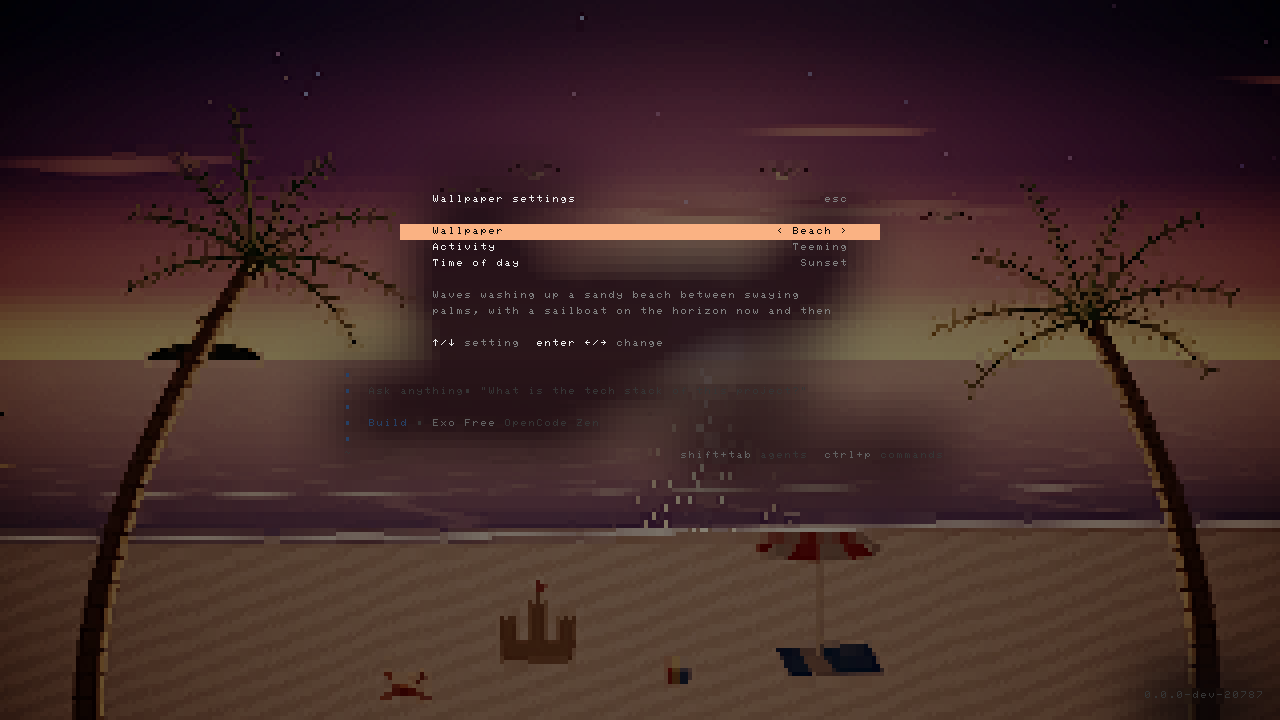
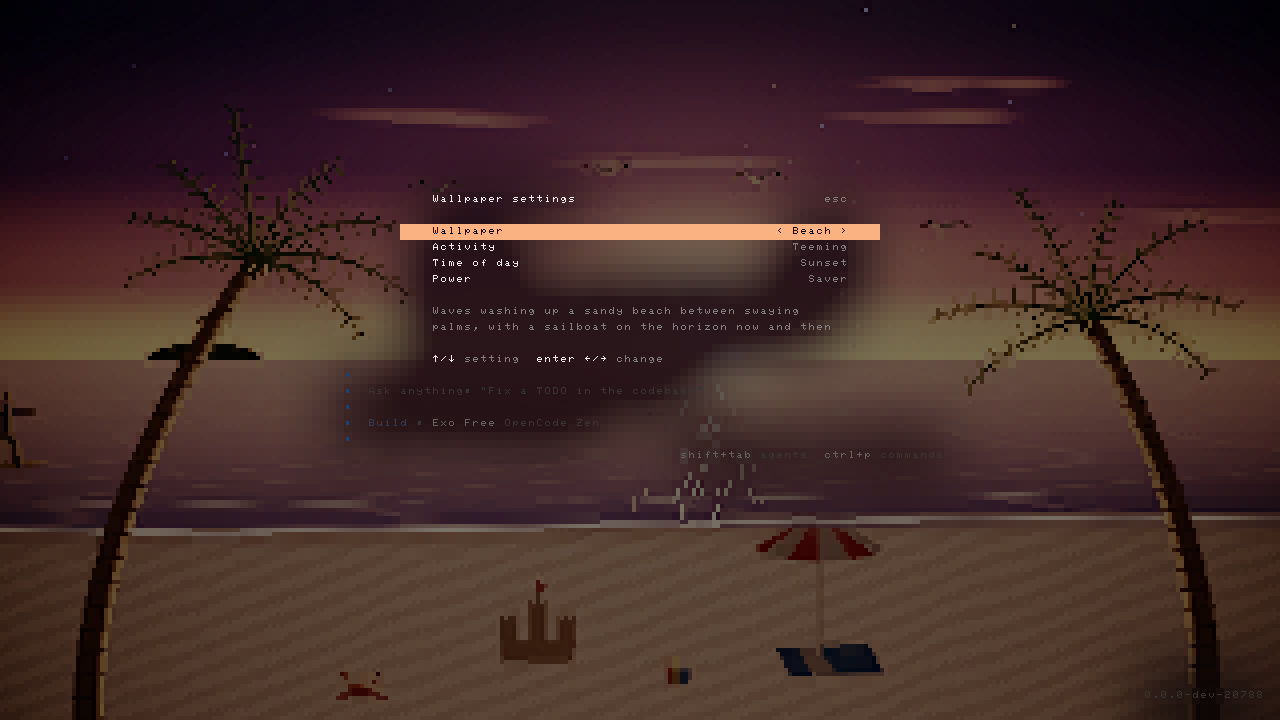
Add a Saver power mode: 5 fps when idle, paused when unfocused

diff --git a/src/engine.tsx b/src/engine.tsx
@@ -43,6 +43,10 @@ export type Activity = (typeof ACTIVITIES)[number]
 export const TIMES = ["day", "sunset", "night"] as const
 export type Time = (typeof TIMES)[number]
 
+// saver slows down when nobody is using OpenCode and stops while the terminal is in the background; smooth never does.
+export const POWERS = ["saver", "smooth"] as const
+export type Power = (typeof POWERS)[number]
+
 
 const UPPER_HALF = 0x2580
 const LOWER_HALF = 0x2584
@@ -221,6 +225,11 @@ const HYSTERESIS = 150
 const PERSISTENCE = 0.45
 // How often the scene advances and redraws; wallpapers move slowly, so this stays low to save CPU and output.
 const FPS = 15
+// Saver mode's rate after IDLE_MS without keyboard, mouse or agent activity.
+const IDLE_FPS = 5
+const IDLE_MS = 30_000
+// Scenes clamp each step to 0.1 s, so longer gaps (the idle rate) are split into steps no longer than that.
+const MAX_STEP = 0.1
 // Real-pixel mode: scene pixels per character cell. Cells are about twice as tall as wide, so 3x6 keeps pixels square.
 const PX_W = 3
 const PX_H = 6
@@ -384,6 +393,7 @@ export interface Engine {
   readonly wallpaper: Wallpaper | undefined
   start(wallpaper: Wallpaper, settings: Settings): void
   stop(): void
+  power(mode: Power): void
 }
 
 // Post-processes OpenCode's final frame: cells painted with neutral OpenCode theme surfaces are replaced by the scene, drawn
@@ -561,6 +571,46 @@ export function createEngine(
   }
 
   let timer: ReturnType<typeof setInterval> | undefined
+  // The timer's period in ms; 0 while paused.
+  let interval = 0
+  let power: Power = "saver"
+  let focused = true
+  let lastActivity = 0
+  let unlisten: (() => void) | undefined
+
+  // Full rate, the idle rate, or stopped, for the current power mode, focus and activity.
+  const schedule = () => {
+    const saver = power === "saver"
+    const next = !scene || (saver && !focused) ? 0 : saver && Date.now() - lastActivity > IDLE_MS ? 1000 / IDLE_FPS : 1000 / FPS
+    if (next === interval) return
+    clearInterval(timer)
+    timer = next
+      ? setInterval(() => {
+          schedule()
+          renderer.requestRender()
+        }, next)
+      : undefined
+    interval = next
+  }
+  const wake = () => {
+    lastActivity = Date.now()
+    schedule()
+  }
+  const onInput = (data: Buffer | string) => {
+    // Kitty graphics replies are the terminal answering us, not the user.
+    if (!data.toString().startsWith("\x1b_G")) wake()
+  }
+  const onFocus = () => {
+    focused = true
+    // Resume where the scene paused rather than stepping over the time spent in the background.
+    if (!interval) lastStep = 0
+    wake()
+    renderer.requestRender()
+  }
+  const onBlur = () => {
+    focused = false
+    schedule()
+  }
 
   const tintOf = (k: number) => {
     const cached = tints.get(k)
@@ -609,22 +659,26 @@ export function createEngine(
     const resized = target !== lastTarget
     lastTarget = target
     scene.resize(targetW, targetH)
-    // The scene advances at most FPS times a second; redraws in between (typing, UI updates) reuse the last frame.
+    // The scene advances at most once per timer interval, and not at all while paused; redraws in between (typing, UI
+    // updates) reuse the last frame.
     const now = performance.now()
     const px = scene.pixels
-    const advanced = resized || now - lastStep >= 1000 / FPS - 2
+    const advanced = resized || (interval > 0 && now - lastStep >= interval - 2)
     if (advanced) {
-      const dt = lastStep ? Math.min(0.2, (now - lastStep) / 1000) : 1 / FPS
-      lastStep = now
-      scene.step(dt)
+      const dt = !interval ? 0 : lastStep ? Math.min(0.5, (now - lastStep) / 1000) : 1 / FPS
+      if (interval) lastStep = now
+      const steps = Math.ceil(dt / MAX_STEP)
+      for (let s = 0; s < steps; s++) scene.step(dt / steps)
       scene.render()
     }
-    paint(buf, px, scene.W, scene.H, advanced, pixels, DESATURATE[settings!.time])
+    // Blending in the previous frame fades at the same speed per second whatever the frame rate.
+    const persistence = interval > 1000 / FPS ? PERSISTENCE ** (interval / (1000 / FPS)) : PERSISTENCE
+    paint(buf, px, scene.W, scene.H, advanced, pixels, DESATURATE[settings!.time], persistence)
   }
 
   // Everything after the scene has drawn its frame. It never touches the scene object: each wallpaper's scene is a
   // different class, and the optimizer would otherwise fall back to slow code for this whole function after a switch.
-  const paint = (buf: OptimizedBuffer, px: Uint8Array, PW: number, PH: number, advanced: boolean, pixels: boolean, desaturate: number) => {
+  const paint = (buf: OptimizedBuffer, px: Uint8Array, PW: number, PH: number, advanced: boolean, pixels: boolean, desaturate: number, persistence: number) => {
     const W = buf.width
     const H = buf.height
     if (advanced) {
@@ -634,7 +688,7 @@ export function createEngine(
         const l = px[p] * 0.2126 + px[p + 1] * 0.7152 + px[p + 2] * 0.0722
         for (let c = 0; c < 3; c++) {
           const v = px[p + c] + (l - px[p + c]) * desaturate
-          const h = fresh ? v : history[p + c] * PERSISTENCE + v * (1 - PERSISTENCE)
+          const h = fresh ? v : history[p + c] * persistence + v * (1 - persistence)
           history[p + c] = h
           px[p + c] = h
         }
@@ -797,7 +851,13 @@ export function createEngine(
       lastTarget = ""
       history = new Float32Array(0)
       previousMask = new Int16Array(0)
-      timer = setInterval(() => renderer.requestRender(), 1000 / FPS)
+      lastActivity = Date.now()
+      focused = true
+      schedule()
+      renderer.on("focus", onFocus)
+      renderer.on("blur", onBlur)
+      renderer.stdin.on("data", onInput)
+      unlisten = context.data.listen(wake)
       layer = (options.layer ?? createLayer)(renderer, drawLayer)
     },
     stop() {
@@ -806,8 +866,12 @@ export function createEngine(
       settings = undefined
       scene = undefined
       renderer.removePostProcessFn(postProcess)
-      clearInterval(timer)
-      timer = undefined
+      schedule()
+      renderer.off("focus", onFocus)
+      renderer.off("blur", onBlur)
+      renderer.stdin.off("data", onInput)
+      unlisten?.()
+      unlisten = undefined
       layer?.dispose()
       layer = undefined
       nextImage?.dispose()
@@ -817,6 +881,10 @@ export function createEngine(
       if (savedTransport !== undefined) renderer.kittyImageTransport = savedTransport
       savedTransport = undefined
       renderer.requestRender()
+    },
+    power(mode) {
+      power = mode
+      wake()
     },
   }
   return engine

diff --git a/tui.tsx b/tui.tsx
@@ -1,14 +1,14 @@
 import { Plugin } from "@opencode/plugin/tui"
 import { RGBA, TextAttributes } from "@opentui/core"
 import { For, createEffect, createSignal } from "solid-js"
-import { ACTIVITIES, TIMES, createEngine, type Activity, type Time } from "./src/engine"
+import { ACTIVITIES, POWERS, TIMES, createEngine, type Activity, type Power, type Time } from "./src/engine"
 import { WALLPAPERS } from "./wallpapers"
 
 export default Plugin.define({
   id: "wallpapers",
   setup(context) {
-    const [stored, update] = context.storage.store<{ wallpaper: string; activity?: Activity; time?: Time | "auto" }>("wallpapers", {
-      initial: { wallpaper: "", activity: "calm", time: "auto" },
+    const [stored, update] = context.storage.store<{ wallpaper: string; activity?: Activity; time?: Time | "auto"; power?: Power }>("wallpapers", {
+      initial: { wallpaper: "", activity: "calm", time: "auto", power: "saver" },
     })
     const engine = createEngine(context, { dump: process.env.WALLPAPER_DUMP })
     // Environment overrides for development; they win over the stored choice.
@@ -18,6 +18,7 @@ export default Plugin.define({
     // Settings saved before these options existed have none.
     const activity = () => stored.activity ?? "calm"
     const timeSetting = () => stored.time ?? "auto"
+    const power = () => stored.power ?? "saver"
     // Auto follows the local clock, checked once a minute.
     const [now, setNow] = createSignal(new Date())
     const clock = setInterval(() => setNow(new Date()), 60_000)
@@ -48,6 +49,13 @@ export default Plugin.define({
           draft.time = t ?? "auto"
         })
         return { message: t ? `Wallpaper time: ${t}` : `Wallpaper time follows your clock (${timeAt(new Date())} now)` }
+      }
+      const mode = POWERS.find((p) => p === arg)
+      if (mode) {
+        await update((draft) => {
+          draft.power = mode
+        })
+        return { message: `Wallpaper power: ${mode}` }
       }
       const wallpaper = WALLPAPERS.find((w) => w.id === arg)
       if (!wallpaper) return { message: `No wallpaper "${arg}". Available: ${WALLPAPERS.map((w) => w.id).join(", ")}`, error: true }
@@ -85,6 +93,16 @@ export default Plugin.define({
         value: timeSetting,
         label: (v) => (v === "auto" ? `Auto (${timeAt(now())})` : capitalize(v)),
         describe: (v) => (v === "auto" ? "Follows your clock: day from 7am, sunset from 6pm, night from 8pm" : `Always ${v}`),
+      },
+      {
+        title: "Power",
+        values: () => POWERS,
+        value: power,
+        label: capitalize,
+        describe: (v) =>
+          v === "saver"
+            ? "Slows to 5 fps after 30 seconds without typing, mouse or agent activity, and pauses while the terminal is in the background"
+            : "Always 15 fps",
       },
     ]
     const Picker = () => {
@@ -185,13 +203,14 @@ export default Plugin.define({
           if (wallpaper) engine.start(wallpaper, { activity: level, time: time() })
           else engine.stop()
         })
+        createEffect(() => engine.power(power()))
         context.keymap.layer(() => ({
           mode: "global",
           commands: [
             {
               id: "wallpapers.choose",
               title: "Choose wallpaper",
-              description: "Animated scene behind the UI. Args: wallpaper id, off, calm, lively, teeming, day, sunset, night, auto",
+              description: "Animated scene behind the UI. Args: wallpaper id, off, calm, lively, teeming, day, sunset, night, auto, saver, smooth",
               group: "Wallpapers",
               palette: true,
               slash: { name: "wallpaper", arguments: true },

diff --git a/dev/cpu.ts b/dev/cpu.ts
@@ -1,0 +1,57 @@
+// Measures a real OpenCode's CPU in a PTY: bun dev/cpu.ts <seconds> [keys...]
+// Writes the keys (1.5 s apart), then reports the CPU time OpenCode and its children used over <seconds>.
+// CPU_TYPE=<ms> types and erases a character every <ms> while sampling, like someone typing; CPU_WAIT=<seconds> waits
+// after the keys before sampling, to measure the idle frame rate.
+const seconds = Number(process.argv[2] ?? 60)
+const keys = process.argv.slice(3)
+const typing = Number(process.env.CPU_TYPE ?? 0)
+const wait = Number(process.env.CPU_WAIT ?? 2)
+const proc = Bun.spawn(["opencode", "--standalone"], {
+  cwd: process.env.HOME,
+  env: { ...process.env, TERM: "xterm-kitty", TERM_PROGRAM: "ghostty", COLORTERM: "truecolor" },
+  terminal: { cols: 160, rows: 45, data() {} },
+})
+const sleep = (ms: number) => new Promise((r) => setTimeout(r, ms))
+const write = (k: string) => proc.terminal!.write(k.replace(/\\r/g, "\r").replace(/\\e/g, "\x1b"))
+
+// Total CPU seconds of the process tree, from ps's cumulative TIME column (m:ss.cc or h:mm:ss.cc).
+const cpu = async () => {
+  const rows = (await new Response(Bun.spawn(["ps", "-A", "-o", "pid=,ppid=,time="]).stdout).text())
+    .trim()
+    .split("\n")
+    .map((line) => line.trim().split(/\s+/))
+  const tree = new Set([proc.pid])
+  for (let grew = true; grew; ) {
+    grew = false
+    for (const [pid, ppid] of rows)
+      if (tree.has(Number(ppid)) && !tree.has(Number(pid))) ((grew = true), tree.add(Number(pid)))
+  }
+  return rows
+    .filter(([pid]) => tree.has(Number(pid)))
+    .reduce((sum, row) => sum + row[2].split(":").reduce((total, part) => total * 60 + Number(part), 0), 0)
+}
+
+await sleep(6000)
+for (const k of keys) {
+  write(k)
+  await sleep(1500)
+}
+await sleep(wait * 1000)
+const typer = typing ? setInterval(() => (write("a"), setTimeout(() => write("\x7f"), typing / 2)), typing) : undefined
+const start = await cpu()
+const began = performance.now()
+const samples: number[] = []
+let last = start
+for (let s = 0; s < seconds / 5; s++) {
+  await sleep(5000)
+  const now = await cpu()
+  samples.push(((now - last) / 5) * 100)
+  last = now
+}
+clearInterval(typer)
+const total = ((last - start) / ((performance.now() - began) / 1000)) * 100
+console.log(`cpu ${total.toFixed(1)}% over ${seconds}s; per 5s: ${samples.map((v) => v.toFixed(0)).join(" ")}`)
+proc.kill()
+await proc.exited
+
+export {}

diff --git a/dev/mock.ts b/dev/mock.ts
@@ -17,10 +17,13 @@ export function mockScreen(options: { kitty?: boolean } = {}) {
     removePostProcessFn: () => (post = undefined),
     requestRender() {},
     getCursorState: () => ({ x: 10, y: 40, visible: true }),
+    on() {},
+    off() {},
+    stdin: { on() {}, off() {} },
     kittyImageTransport: "raw",
     ...(options.kitty ? { resolution: { width: W * 8, height: H * 16 }, capabilities: { kitty_graphics: true } } : {}),
   }
-  const engine = createEngine({ renderer } as never, { layer: (_renderer, draw) => ((layer = draw as typeof layer), { dispose() {} }) })
+  const engine = createEngine({ renderer, data: { listen: () => () => {} } } as never, { layer: (_renderer, draw) => ((layer = draw as typeof layer), { dispose() {} }) })
   return {
     engine,
     buffers,

diff --git a/README.md b/README.md
@@ -87,6 +87,13 @@ sunset from 6pm (and at dawn, 6 to 7am), night from 8pm. Pick one in the menu to
 - **Beach:** turquoise water by day, a glittering path under the setting sun, and a moon path at night with glowing
   bioluminescent waves.
 
+## Power
+
+Wallpapers animate at 15 frames per second. On **Saver**, the default, they slow to 5 frames per second after 30
+seconds without typing, mouse or agent activity, and pause while the terminal window is in the background (in
+terminals that report focus, such as Ghostty, kitty, iTerm2 and tmux). Any input brings back full speed at once.
+**Smooth** always runs at 15.
+
 ## Terminals
 
 Any truecolor terminal works. Ghostty and kitty get octant characters (2x4 sub-pixels per cell); other terminals get
@@ -103,7 +110,7 @@ quadrant blocks (2x2). These environment variables tune rendering:
 The plugin post-processes each frame OpenCode draws. Cells painted with OpenCode's neutral surface colors are replaced
 by the scene, while colored backgrounds such as diffs and selections are left alone. Text keeps a soft scrim that fades
 the scene toward a dark tint around it. Scenes render in HDR with bloom and tone mapping, then are fitted to two colors
-per character cell. Wallpapers update at 15 frames per second.
+per character cell.
 
 ## Add a wallpaper
 
